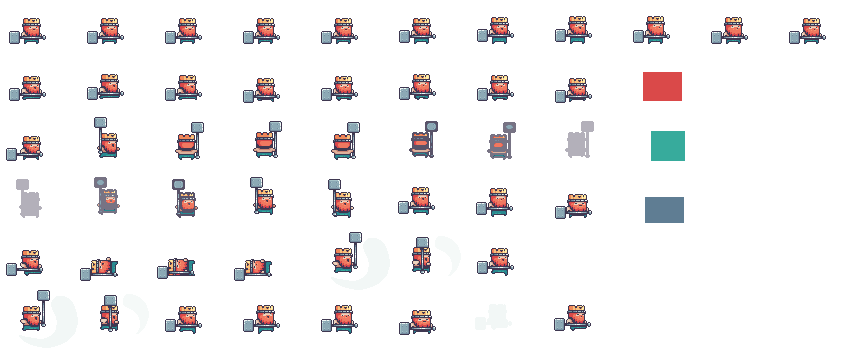
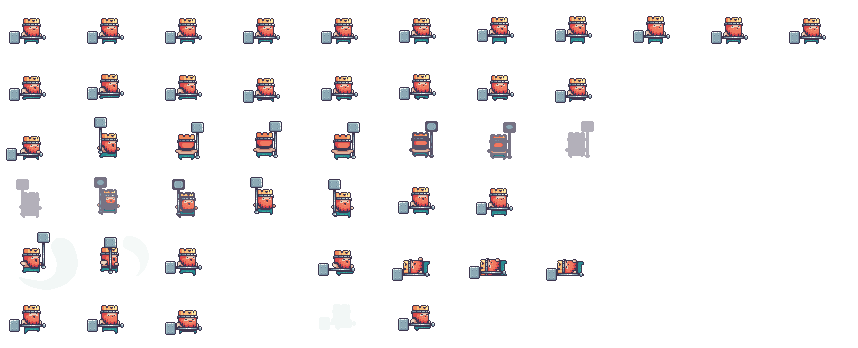
Tidy up

diff --git a/LDtkMonogame.Examples/LDtkExample.cs b/LDtkMonogame.Examples/LDtkExample.cs
@@ -29,6 +29,8 @@ namespace Examples
         private bool followPlayer = true;
 
         Texture2D pixelTexture;
+        Door[] doors;
+        Crate[] crates;
 
         public LDtkExample() : base()
         {
@@ -45,11 +47,16 @@ namespace Examples
             startLevel = world.GetLevel("Level1");
             neighbours = (from neighbour in startLevel.Neighbours select world.GetLevel(neighbour)).ToArray();
 
-            Door[] doors = startLevel.GetEntities<Door>();
+            doors = startLevel.GetEntities<Door>();
+
+            for (int i = 0; i < doors.Length; i++)
+            {
+                doors[i].trigger = new Rect(doors[i].Position.X - 16, doors[i].Position.Y - 32, 32, 32);
+            }
 
             drawableEntities.AddRange(doors);
 
-            Crate[] crates = startLevel.GetEntities<Crate>();
+            crates = startLevel.GetEntities<Crate>();
 
             player = startLevel.GetEntity<Player>();
 
@@ -60,7 +67,7 @@ namespace Examples
         public override void OnWindowResized()
         {
             cameraOrigin = new Vector3(GraphicsDevice.Viewport.Width / 2f, GraphicsDevice.Viewport.Height / 2f, 0);
-            cameraZoom = 2;
+            cameraZoom = Math.Max(GraphicsDevice.Viewport.Height / 250, 1);
         }
 
         protected override void Update(GameTime gameTime)
@@ -70,7 +77,6 @@ namespace Examples
             KeyboardState keyboard = Keyboard.GetState();
             MouseState mouse = Mouse.GetState();
 
-
             if (keyboard.IsKeyDown(Keys.Tab) && oldKeyboard.IsKeyDown(Keys.Tab) == false)
             {
                 followPlayer = !followPlayer;
@@ -78,7 +84,7 @@ namespace Examples
 
             if (followPlayer)
             {
-                cameraPosition = -new Vector3(player.Position, 0);
+                cameraPosition = -new Vector3(player.Position.X, player.Position.Y - 30, 0);
             }
             else
             {
@@ -120,6 +126,16 @@ namespace Examples
                     }
                 }
 
+                for (int i = 0; i < doors.Length; i++)
+                {
+                    if (doors[i].trigger.Contains(player.collider))
+                    {
+                        player.inDoor = true;
+                        doors[i].opening = true;
+                        break;
+                    }
+                }
+
                 for (int i = 0; i < drawableEntities.Count; i++)
                 {
                     spriteBatch.Draw(drawableEntities[i].Texture,
@@ -134,8 +150,8 @@ namespace Examples
                     player.Position,
                     player.Frame,
                     Color.White, 0,
-                    (player.Pivot * player.FrameSize) + new Vector2(player.fliped ? -8 : 8, -14), 1,
-                    player.fliped ? SpriteEffects.None : SpriteEffects.FlipHorizontally, 0);
+                                (player.Pivot * player.FrameSize) + new Vector2(player.fliped ? -8 : 8, -14), 1,
+                                player.fliped ? SpriteEffects.None : SpriteEffects.FlipHorizontally, 0);
             }
             spriteBatch.End();
 

diff --git a/LDtkMonogame.Examples/Entity/Player.cs b/LDtkMonogame.Examples/Entity/Player.cs
@@ -54,6 +54,7 @@ namespace Examples
         int animationType;
         bool doorInteraction;
         bool enteringDoor;
+        internal bool inDoor;
 
         public Player()
         {
@@ -193,6 +194,7 @@ namespace Examples
         {
             frameTime += deltaTime;
 
+            // This is awful but its only a demo so it doesnt really matter
             if (frameTime >= .1f)
             {
                 frameTime -= .1f;
@@ -200,6 +202,7 @@ namespace Examples
                 {
                     if (enteringDoor)
                     {
+                        // Enter door
                         if (animationFrame < 7)
                         {
                             animationFrame++;
@@ -213,6 +216,7 @@ namespace Examples
                     }
                     else
                     {
+                        // Exit door
                         if (animationFrame < 6)
                         {
                             animationFrame++;
@@ -228,11 +232,13 @@ namespace Examples
                 {
                     if (grounded == true && oldGrounded == false)
                     {
-                        animationFrame = 5;
+                        animationFrame = 2;
                         animationType = 5;
                     }
                     else if (velocity.X == 0)
                     {
+                        // Idling
+                        animationType = 0;
                         if (animationFrame < 10)
                         {
                             animationFrame++;
@@ -241,10 +247,11 @@ namespace Examples
                         {
                             animationFrame = 0;
                         }
-                        animationType = 0;
                     }
                     else
                     {
+                        // Walk
+                        animationType = 1;
                         if (animationFrame < 7)
                         {
                             animationFrame++;
@@ -253,18 +260,17 @@ namespace Examples
                         {
                             animationFrame = 0;
                         }
-                        animationType = 1;
                     }
 
                 }
                 else if (velocity.Y > 0)
                 {
-                    animationFrame = 4;
+                    animationFrame = 1;
                     animationType = 5;
                 }
-                if (velocity.Y < 0)
+                else if (velocity.Y < 0)
                 {
-                    animationFrame = 3;
+                    animationFrame = 0;
                     animationType = 5;
                 }
 

diff --git a/LDtkMonogame.Examples/Entity/Door.cs b/LDtkMonogame.Examples/Entity/Door.cs
@@ -33,5 +33,13 @@ namespace Examples
 
         public string destinationLevel;
         public int destinationDoor;
+
+        public Rect trigger;
+        public bool opening;
+
+        public void Update(float deltaTime)
+        {
+
+        }
     }
 }

diff --git a/README.md b/README.md
@@ -47,7 +47,7 @@ spriteBatch.End();
 ```
 Thats all thats needed to render your level everything else is handled by LDtkMonogame
   
-### For a more detailed introduction and on how to use `IntGrids` and `Entities` check out the wiki
+### For a more detailed introduction and on how to use **IntGrids**, **Levels** and **Entities** check out the wiki
 
 [Wiki and Api Documentation](https://irishbruse.github.io/LDtkMonogame/)
 ------------
